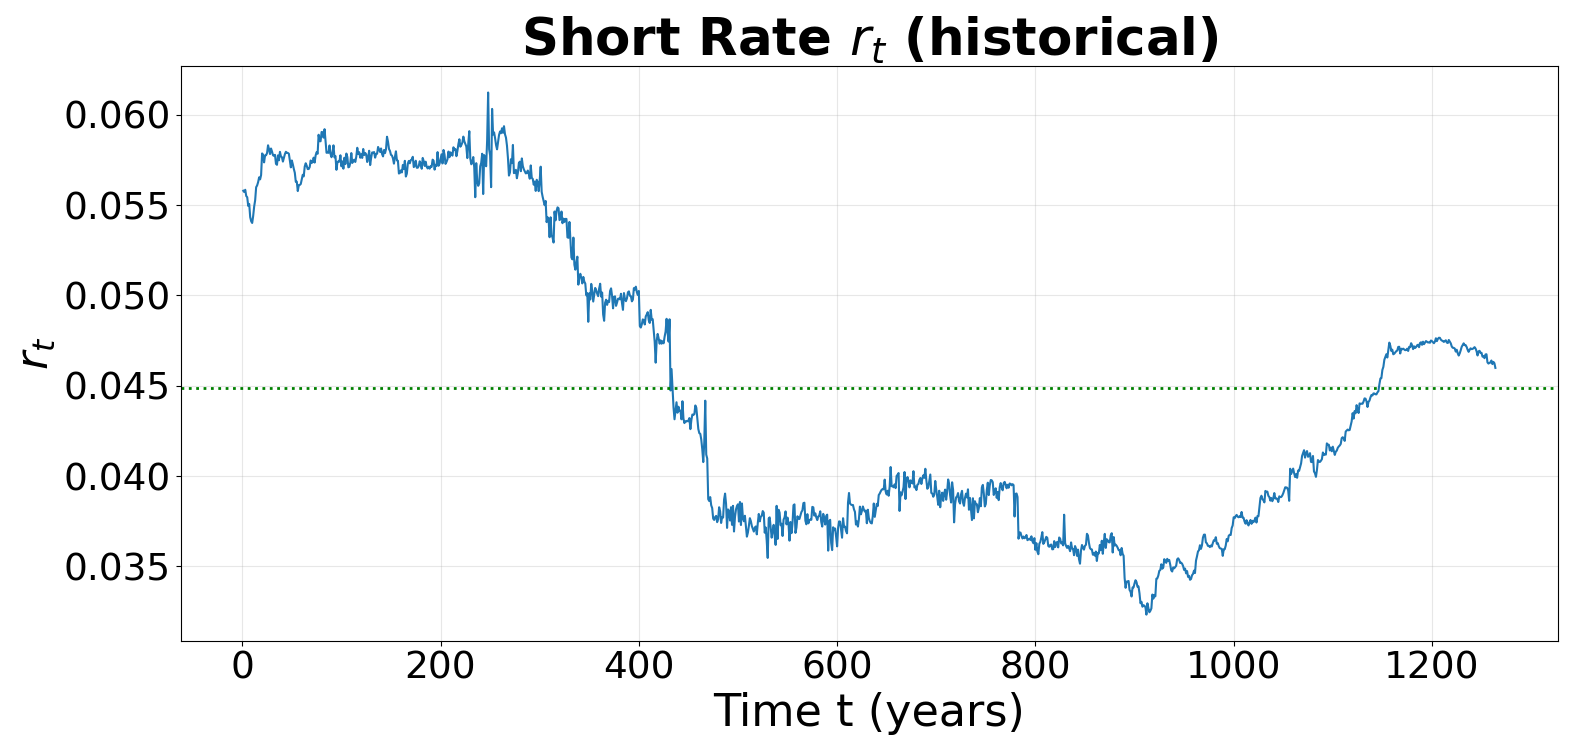
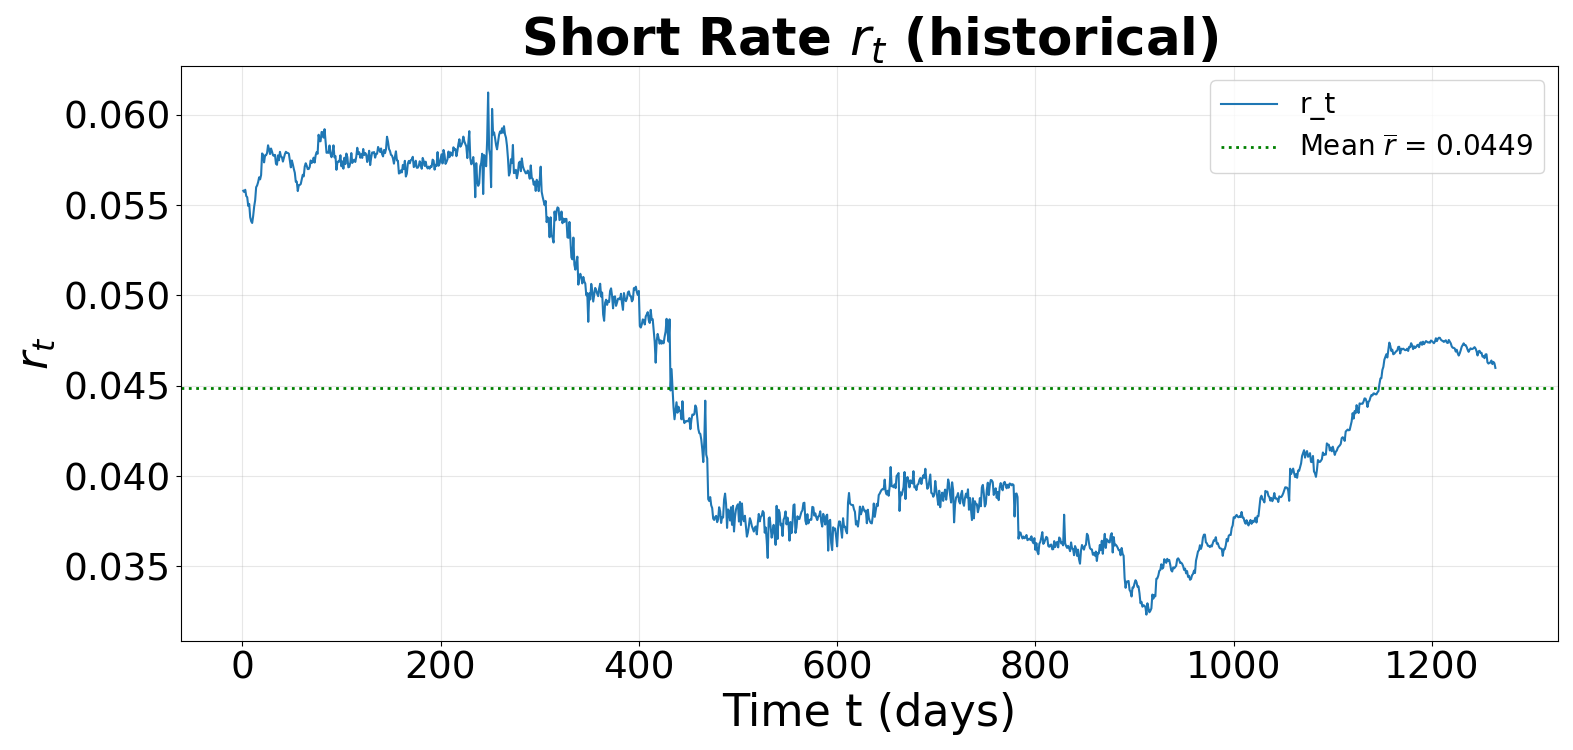
renaming of chapter 4

Changed region(s): [[0.4361, 0.92, 0.6542, 0.9813], [0.8099, 0.184, 0.9968, 0.2147]]

diff --git a/Chapter 4/pca/simulate.py b/Chapter 4/pca/simulate.py
@@ -67,91 +67,91 @@ def simulate_path(f0: np.ndarray, tau: np.ndarray, drift_vals: np.ndarray, Sigma
         path[it] = f
     return path
 
-LABELS = ['1M','6M','1.0Y','2.0Y','3.0Y','5.0Y','10.0Y','20.0Y','25.0Y']
-DAY2YR = 252.0
+TENOR_LABELS  = ['1M', '6M', '1.0Y', '2.0Y', '3.0Y', '5.0Y', '10.0Y', '20.0Y', '25.0Y']
+ANNUALIZATION = 252.0
 
-# Q-measure forward surface and historical short rate
-fQ_df   = pd.read_csv(r"Chapter 4\data\simulated_fwd_rates_Q_msr.csv").set_index("t").sort_index()
-rHist   = pd.read_csv(r"Chapter 4\data\short_rate.csv").set_index("t").sort_index()["r_t"]
+# simulated Q-measure forward surface and historical short rate
+fQ_df = pd.read_csv(r"Chapter 4\data\simulated_fwd_rates_Q_msr.csv").set_index("t").sort_index()
+rHist = pd.read_csv(r"Chapter 4\data\short_rate.csv").set_index("t").sort_index()["r_t"]
 
 # Historical GBP forward rates
 df_hist = pd.read_csv(r"Chapter 4\data\GLC_fwd_curve_raw.csv").set_index("t").sort_index() / 100.0
 
-# Volatility term-structures csv
-vol_tab  = pd.read_csv(r"Chapter 4\data\discretized_volatility.csv")
-Tau_vol  = vol_tab["Tenor (Years)"].to_numpy(float)
-Vols_tab = vol_tab[["Vol1","Vol2","Vol3"]].to_numpy(float)
+# Volatility term-structure (discretized from PCA)
+vol_tab = pd.read_csv(r"Chapter 4\data\discretized_volatility.csv")
+Tau_vol = vol_tab["Tenor (Years)"].to_numpy(float)
+Vols_tab = vol_tab[["Vol1", "Vol2", "Vol3"]].to_numpy(float)
 
-labels    = LABELS
-pick_tau  = np.array([parse_tenor(x) for x in labels])
-tmin, tmax = Tau_vol.min(), Tau_vol.max()
+selected_tenors_years = np.array([parse_tenor(x) for x in TENOR_LABELS])
 
-coeff_list      = polynomial_fit_per_factor(Tau_vol, Vols_tab, degrees=[0, 3, 3]) # degree of polynomial for each factor
-vols_at_labels  = eval_polys(coeff_list, pick_tau) 
-drift_at_labels = np.array([drift_computation(t, coeff_list) for t in pick_tau])
+# Fit a smooth polynomial over the volatility grid per factor 
+coeff_list = polynomial_fit_per_factor(Tau_vol, Vols_tab, degrees=[0, 3, 3])
+vols_at_labels  = eval_polys(coeff_list, selected_tenors_years)
+drift_at_labels = np.array([drift_computation(tau, coeff_list) for tau in selected_tenors_years])
 
-t   = fQ_df.index.intersection(rHist.index).intersection(df_hist.index)
-fQ_sel     = fQ_df.loc[t, labels].to_numpy(float)   
-r_sel      = rHist.loc[t].to_numpy(float)           
-hist_path  = df_hist.loc[t, labels].to_numpy(float)
+# align time indexes across datasets
+t = fQ_df.index.intersection(rHist.index).intersection(df_hist.index)
+
+fQ_sel = fQ_df.loc[t, TENOR_LABELS].to_numpy(float)     
+r_sel = rHist.loc[t].to_numpy(float)                   
+hist_path = df_hist.loc[t, TENOR_LABELS].to_numpy(float)   
 
 print("\nQ-measure forward rates parsed for each tenor (first few rows):")
-print(pd.DataFrame(fQ_sel, index=t, columns=labels).head())
+print(pd.DataFrame(fQ_sel, index=t, columns=TENOR_LABELS).head())
 
-timeline_years = (t.to_numpy(float) - t.min()) / DAY2YR
+timeline_years = (t.to_numpy(float) - t.min()) / ANNUALIZATION
 
-r_mean = float(rHist.loc[t].mean())
-f_mean = df_hist.loc[t, labels].to_numpy(float).mean(axis=0)
+# risk-premium parameters
+r_mean = float(r_sel.mean())
+f_mean = df_hist.loc[t, TENOR_LABELS].to_numpy(float).mean(axis=0)
 
-DPI = 100
+DPI  = 100
 W_IN = 1573 / DPI
 H_IN = 750  / DPI
 
 fig, ax = plt.subplots(figsize=(W_IN, H_IN), dpi=DPI)
 rHist.loc[t].plot(ax=ax, lw=1.5)
-ax.axhline(y=r_mean, linestyle=":", lw=2.0, color="green", label=fr"Mean $\overline{{r}}$ = {r_mean:.4f}")
-ax.set_title("Short Rate $r_t$ (historical)", fontsize=37, fontweight="bold")
+ax.axhline(y=r_mean, linestyle=":", lw=2.0, color="green",
+           label=fr"Mean $\overline{{r}}$ = {r_mean:.4f}")
+ax.legend(fontsize=20)
 
+ax.set_title("Short Rate $r_t$ (historical)", fontsize=37, fontweight="bold")
 TICK_FS = 27
 ax.tick_params(axis="both", which="major", labelsize=TICK_FS)
 ax.tick_params(axis="both", which="minor", labelsize=TICK_FS)
 ax.xaxis.get_offset_text().set_size(TICK_FS)
 ax.yaxis.get_offset_text().set_size(TICK_FS)
-ax.set_xlabel("Time t (years)", fontsize=32)
+ax.set_xlabel("Time t (days)", fontsize=32)
 ax.set_ylabel(r"$r_t$", fontsize=32)
 ax.grid(True, alpha=0.3)
 fig.tight_layout()
 plt.savefig("short_rate.png", dpi=DPI)
 plt.show()
 
-curve_spot_vec = fQ_sel[0] # initial forward curve
+curve_spot_vec = fQ_sel[0]  # initial forward curve
 
-sim_path = simulate_path(
-    f0=curve_spot_vec,
-    tau=pick_tau,
-    drift_vals=drift_at_labels,
-    vols_at_tau=vols_at_labels,
-    tgrid=timeline_years,
-    r_mean=r_mean,
-    f_mean=f_mean,
-    seed=42
-)
+sim_path = simulate_path(f0=curve_spot_vec, tau=selected_tenors_years, drift_vals=drift_at_labels, Sigma=vols_at_labels, tgrid=timeline_years,
+    r_mean=r_mean, f_mean=f_mean, seed=42)
 
-out = pd.DataFrame(sim_path, index=t, columns=labels)
+out = pd.DataFrame(sim_path, index=t, columns=TENOR_LABELS)
 out.index.name = "t"
 out.to_csv("simulated_forward_P_measure.csv")
 
 fig, axes = plt.subplots(3, 3, figsize=(14, 10), sharex=True)
-for j, ax in enumerate(axes.ravel()):
+axes = axes.ravel()
+
+for j, ax in enumerate(axes):
     ax.plot(timeline_years, hist_path[:, j], label="Historical", lw=1.5)
     ax.plot(timeline_years, sim_path[:, j],  label="Simulated", ls="--", lw=1.0)
-    ax.set_title(labels[j], fontsize=16, fontweight="bold")
+    ax.set_title(TENOR_LABELS[j], fontsize=16, fontweight="bold")
     ax.set_xlabel("Time t (years)", fontsize=14)
     ax.set_ylabel(r"$f(t, T)$", fontsize=14)
     ax.grid(True, alpha=0.3)
     ax.tick_params(axis="both", which="major", labelsize=12)
     ax.legend(fontsize=12)
-fig.suptitle("Forward Rates: Simulated vs Historical", fontsize=20, fontweight="bold", y=0.98)
+
+fig.suptitle("Forward Rates: Simulated vs Historical (P measure)", fontsize=20,
+             fontweight="bold", y=0.98)
 fig.tight_layout(rect=[0, 0, 1, 0.96])
 plt.savefig("fwd_rates_simulated_p.png", dpi=150)
 plt.show()
